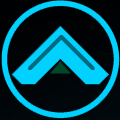
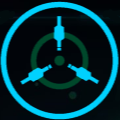
Repositioned buttons

diff --git a/app/mainfloor/mainfloor.html b/app/mainfloor/mainfloor.html
@@ -1,113 +1,14 @@
 <div id="content" height="601px">
   <img src="assets/jarvislogo.jpg" class="jarvislogo" />
   <img src="assets/center.jpg" class="center" />
-  <md-button class="pos1" ng-href="!#/livingroom"><img src="assets/navbtn1.png" /></md-button>
-  <md-button class="pos2" ng-href="!#/livingroom"><img src="assets/navbtn2.png" /></md-button>
-  <md-button class="pos3" ng-href="!#/livingroom"><img src="assets/navbtn3.png" /></md-button>
-  <md-button class="pos4" ng-href="!#/livingroom"><img src="assets/navbtn4.png" /></md-button>
-  <md-button class="pos5" ng-href="!#/livingroom"><img src="assets/navbtn5.png" /></md-button>
-  <md-button class="pos6" ng-href="!#/livingroom"><img src="assets/navbtn6.png" /></md-button>
-  <md-button class="pos7" ng-href="!#/livingroom"><img src="assets/navbtn7.png" /></md-button>
-  <md-button class="pos8" ng-href="!#/livingroom"><img src="assets/navbtn8.png" /></md-button>
+  <md-button class="pos1" ng-href="!#/livingroom"><img src="assets/navbtn1.png" height="130px" /></md-button>
+  <md-button class="pos2" ng-href="!#/livingroom"><img src="assets/navbtn2.png" height="130px" /></md-button>
+  <md-button class="pos3" ng-href="!#/livingroom"><img src="assets/navbtn3.png" height="130px" /></md-button>
+  <md-button class="pos4" ng-href="!#/livingroom"><img src="assets/navbtn4.png" height="130px" /></md-button>
+  <md-button class="pos5" ng-href="!#/livingroom"><img src="assets/navbtn5.png" height="130px" /></md-button>
+  <md-button class="pos6" ng-href="!#/livingroom"><img src="assets/navbtn6.png" height="130px" /></md-button>
+  <md-button class="pos7" ng-href="!#/livingroom"><img src="assets/navbtn7.png" height="130px" /></md-button>
+  <md-button class="pos8" ng-href="!#/livingroom"><img src="assets/navbtn7.png" height="130px" /></md-button>
+  <md-button class="posback" ng-href="!#/livingroom"><img src="assets/dirbtn1.png" height="100px" /></md-button>
+  <md-button class="posfwd" ng-href="!#/livingroom"><img src="assets/dirbtn1.png" height="100px" /></md-button>
 </div>
-
-
-
-
-
-
-
-
-
-
-
-<!--
-  <md-subheader><h3 class="md-headline">Shut Downs</h3></md-subheader>
-  <div layout-gt-sm="row" layout-sm="column" layout-padding>
-    <div flex="33">
-      <md-button ng-click="sendcommand('turn everything off'); sendcommand('turn off the tv'); sendcommand('shut the garage door')"
-        class="custombtn md-primary md-raised" aria-label="Everything Off">
-        
-        Everything Off
-      </md-button>
-    </div>
-    <div flex="33">
-      <md-button ng-click="sendcommand('shut the living room light off'); sendcommand('shut the kitchen lights off'); 
-        sendcommand('shut the back porch light off'); sendcommand('turn off the tv'); sendcommand('shut the garage door')" 
-        class="custombtn md-primary md-raised" aria-label="Living Room Light">
-        
-        Main Floor & Outside Off
-      </md-button>
-    </div>
-    <div flex="33">
-      <md-button ng-click="sendcommand('turn off the tv')" class="custombtn md-primary md-raised" aria-label="TV Off">
-        TV Off
-      </md-button>
-    </div>
-  </div>
-  <div layout-gt-sm="row" layout-sm="column" layout-padding>
-    <div flex="33">
-      <md-button ng-click="sendcommand('close the garage door')" class="custombtn md-primary md-raised" aria-label="Close Garage Door">
-        Close Garage Door
-      </md-button>
-    </div>
-  </div>
-  
-  <md-subheader><h3 class="md-headline">Lights</h3></md-subheader>
-  <div layout-gt-sm="row" layout-sm="column" layout-padding>
-    <div flex="33">
-      <md-menu>
-        <md-button aria-label="Living Room Light" class="custombtn md-primary md-raised" ng-click="openMenu($mdMenu, $event)">
-          Living Room
-        </md-button>
-        <md-menu-content width="4">
-          <md-menu-item>
-            <md-button ng-click="sendcommand('switch the living room light')">
-              On/Off            
-            </md-button>
-          </md-menu-item>
-          <md-menu-item>
-            <md-button ng-click="sendcommand('set the living room light brightness to 60%')">            
-              Brighter
-            </md-button>
-          </md-menu-item>
-          <md-menu-item>
-            <md-button ng-click="sendcommand('set the living room light brightness to 25%')">            
-              Dimmer
-            </md-button>
-          </md-menu-item>
-          <md-menu-item>
-            <md-button ng-click="sendcommand('set the living room light color to incandescent')">            
-              Reset
-            </md-button>
-          </md-menu-item>
-        </md-menu-content>
-      </md-menu>
-    </div>
-    <div flex="33">
-      <md-menu>
-        <md-button aria-label="Living Room Light" class="custombtn md-primary md-raised" ng-click="openMenu($mdMenu, $event)">
-          Kitchen
-        </md-button>
-        <md-menu-content width="4">
-          <md-menu-item>
-            <md-button ng-click="sendcommand('switch the dining room light')">
-              Dining Room On/Off            
-            </md-button>
-          </md-menu-item>
-          <md-menu-item>
-            <md-button ng-click="sendcommand('switch the galley light')">            
-              Galley On/Off
-            </md-button>
-          </md-menu-item>
-        </md-menu-content>
-      </md-menu>
-    </div>
-    <div flex="33">
-      <md-button ng-click="sendcommand('switch the back porch light')" class="custombtn md-primary md-raised" aria-label="Back Porch Light">
-        Back Porch
-      </md-button>
-    </div>
-  </div>
-</md-content>
--->

diff --git a/app/app.css b/app/app.css
@@ -9,66 +9,140 @@
   max-height: 20vh;
 }
 
-.center {
-  position: absolute;
-  top: 50%;
-  left: 50%;
-  transform: translate(-50%, -50%);
-  max-height: 50vh;
+/* Tablet */
+@media (max-width: 1024px) {
+  .center {
+    position: absolute;
+    top: 150px;
+    left: 331px;
+    max-height: 300px;
+  }
+
+  .pos1 {
+    position: absolute;
+    top: 5px;
+    left: 399px;
+  }
+
+  .pos2 {
+    position: absolute;
+    top: 65px;
+    left: 560px;
+  }
+
+  .pos3 {
+    position: absolute;
+    top: 225px;
+    left: 625px;
+  }
+
+  .pos4 {
+    position: absolute;
+    top: 385px;
+    left: 560px;
+  }
+
+  .pos5 {
+    position: absolute;
+    top: 451px;
+    left: 399px;
+  }
+
+  .pos6 {
+    position: absolute;
+    top: 385px;
+    left: 240px;
+  }
+
+  .pos7 {
+    position: absolute;
+    top: 225px;
+    left: 176px;
+  }
+
+  .pos8 {
+    position: absolute;
+    top: 65px;
+    left: 240px;
+  }
+
+  .posback {
+    position: absolute;
+    top: 5px;
+    left: 5px;
+    transform: rotate(-0.25turn);
+  }
+
+  .posfwd {
+    position: absolute;
+    top: 465px;
+    right: 5px;
+    transform: rotate(0.25turn);
+  }
 }
 
-.pos1 {
-  position: absolute;
-  top: 50%;
-  left: 50%;
-  transform: translate(-200%, -200%);
-}
+@media (min-width: 1025px) {
+  .center {
+    position: absolute;
+    top: 5%;
+    left: 50%;
+    transform: translate(-50%, -50%);
+    max-height: 50vh; 
+  }
 
-.pos2 {
-  position: absolute;
-  top: 50%;
-  left: 50%;
-  transform: translate(-250%, -50%);
-}
+  .pos1 {
+    position: absolute;
+    top: 50%;
+    left: 50%;
+    transform: translate(-200%, -200%);
+  }
 
-.pos3 {
-  position: absolute;
-  top: 50%;
-  left: 50%;
-  transform: translate(-200%, 100%);
-}
+  .pos2 {
+    position: absolute;
+    top: 50%;
+    left: 50%;
+    transform: translate(-250%, -50%);
+  }
 
-.pos4 {
-  position: absolute;
-  top: 50%;
-  left: 50%;
-  transform: translate(-50%, 150%);
-}
+  .pos3 {
+    position: absolute;
+    top: 50%;
+    left: 50%;
+    transform: translate(-200%, 100%);
+  }
 
-.pos5 {
-  position: absolute;
-  top: 50%;
-  left: 50%;
-  transform: translate(100%, 100%);
-}
+  .pos4 {
+    position: absolute;
+    top: 50%;
+    left: 50%;
+    transform: translate(-50%, 150%);
+  }
 
-.pos6 {
-  position: absolute;
-  top: 50%;
-  left: 50%;
-  transform: translate(150%, -50%);
-}
+  .pos5 {
+    position: absolute;
+    top: 50%;
+    left: 50%;
+    transform: translate(100%, 100%);
+  }
 
-.pos7 {
-  position: absolute;
-  top: 50%;
-  left: 50%;
-  transform: translate(100%, -200%);
-}
+  .pos6 {
+    position: absolute;
+    top: 50%;
+    left: 50%;
+    transform: translate(150%, -50%);
+  }
 
-.pos8 {
-  position: absolute;
-  top: 50%;
-  left: 50%;
-  transform: translate(-50%, -250%);
+  .pos7 {
+    position: absolute;
+    top: 50%;
+    left: 50%;
+    transform: translate(100%, -200%);
+  }
+
+  .pos8 {
+    position: absolute;
+    top: 50%;
+    left: 50%;
+    transform: translate(-50%, -250%);
+  }
 }
